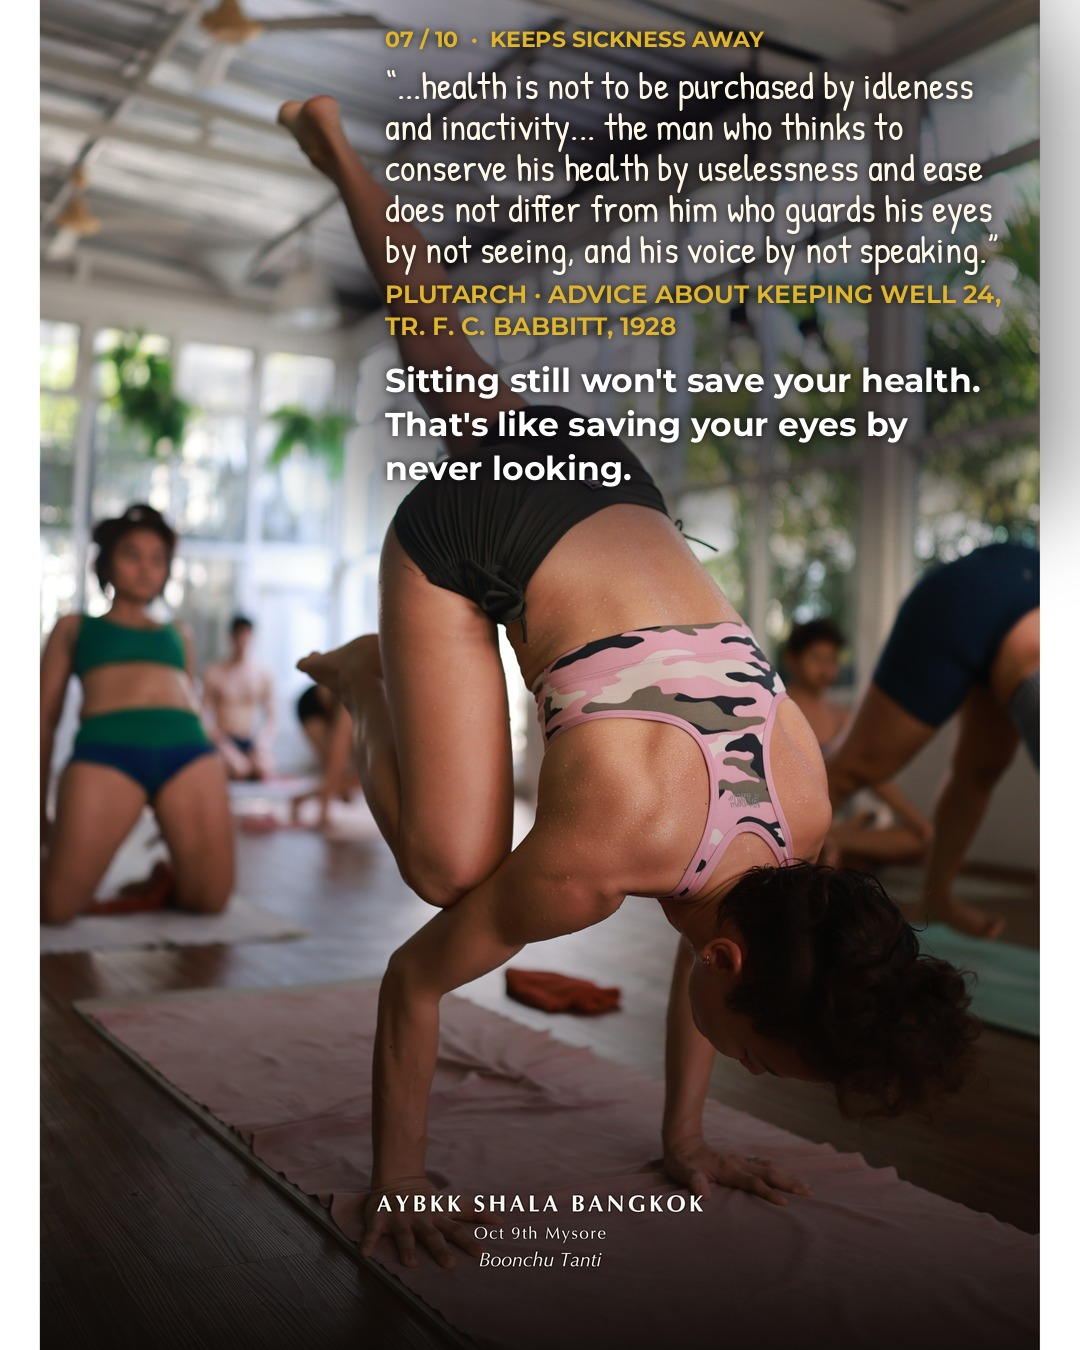
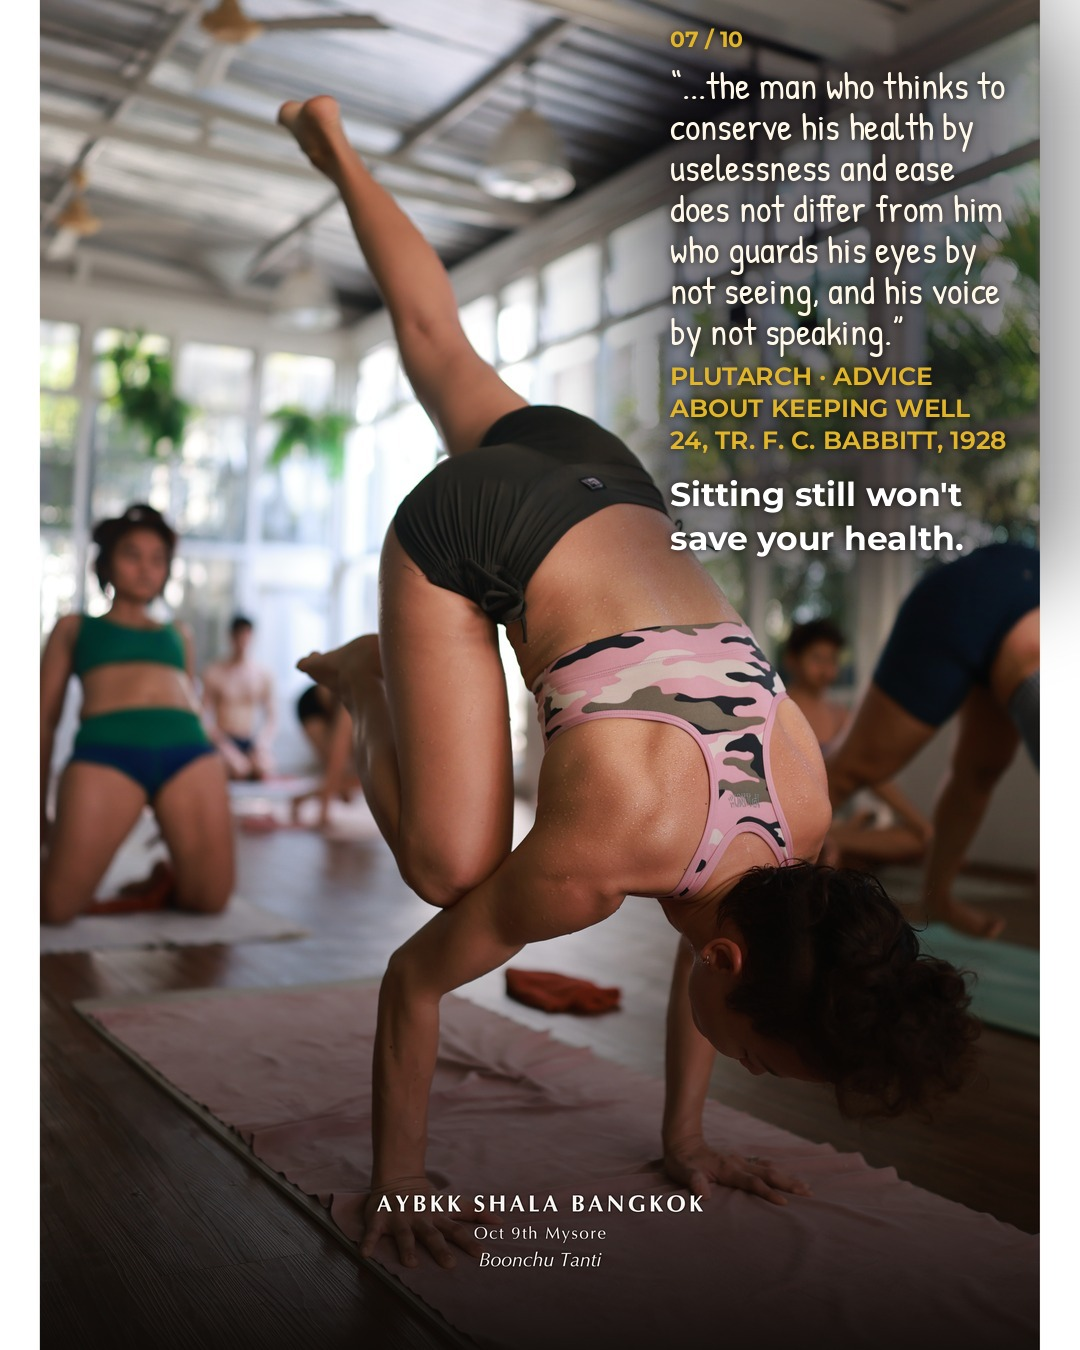
plato chat: 2026-10-09 batch 2 slides 7 and 10 moved

Changed region(s): [[0.275, 0.0, 1.0, 0.4667]]

diff --git a/bots/media/2026-10-09-stay-active/slides_o9.py b/bots/media/2026-10-09-stay-active/slides_o9.py
@@ -53,8 +53,8 @@ B2=('KEEPS SICKNESS AWAY',[
  "...there are five benefits of walking meditation... You get fit for traveling, fit for striving in meditation, and healthy. What's eaten, drunk, chewed, and tasted is properly digested...",
  "The Buddha said walking practice keeps you fit and well, and helps you digest food.",{}),
 ('',"Plutarch · Advice about Keeping Well 24, tr. F. C. Babbitt, 1928",
- "...health is not to be purchased by idleness and inactivity... the man who thinks to conserve his health by uselessness and ease does not differ from him who guards his eyes by not seeing, and his voice by not speaking.",
- "Sitting still won't save your health. That's like saving your eyes by never looking.",{}),
+ "...the man who thinks to conserve his health by uselessness and ease does not differ from him who guards his eyes by not seeing, and his voice by not speaking.",
+ "Sitting still won't save your health.",{}),
 ('',"Wat Pho hermit statues, Bangkok, 1830s · K. I. Matics, Journal of the Siam Society, 1977",
  "At Wat Pho in Bangkok, statues of hermits made in the 1830s show ‘ruesi dat ton’, Thai self-stretching exercises. Each figure was meant to ease a problem, such as stiff legs, sprained shoulders or dizziness.",
  "Thailand has its own old stretching practice for aches and stiffness.",{'s':1,'pre':'ฤๅษีดัดตน','pf':TH}),
@@ -62,8 +62,8 @@ B2=('KEEPS SICKNESS AWAY',[
  "A Chinese folk saying goes: ‘Walk a hundred steps after a meal, and live to ninety-nine.’ An English proverb book of 1732 says: ‘After Dinner, sit a while: After Supper, walk a Mile.’",
  "Two countries, same advice: after you eat, take a gentle walk.",{'s':1,'pre':'饭后百步走，活到九十九','pf':ZH,'ps':56}),
 ('',"B. K. S. Iyengar · Light on Life, 2005",
- "Physical health is not a commodity to be bargained for... it has to be earned through sweat. It is something that we must build up.",
- "You cannot buy good health. You build it yourself, with effort and sweat.",{}),
+ "...it has to be earned through sweat.",
+ "Earn your health with your own sweat.",{}),
 ])
 B3=('WHAT SCIENCE FOUND',[
 ('9-127',"Dallas Bed Rest and Training Study · Circulation, 1968 and 2001",
